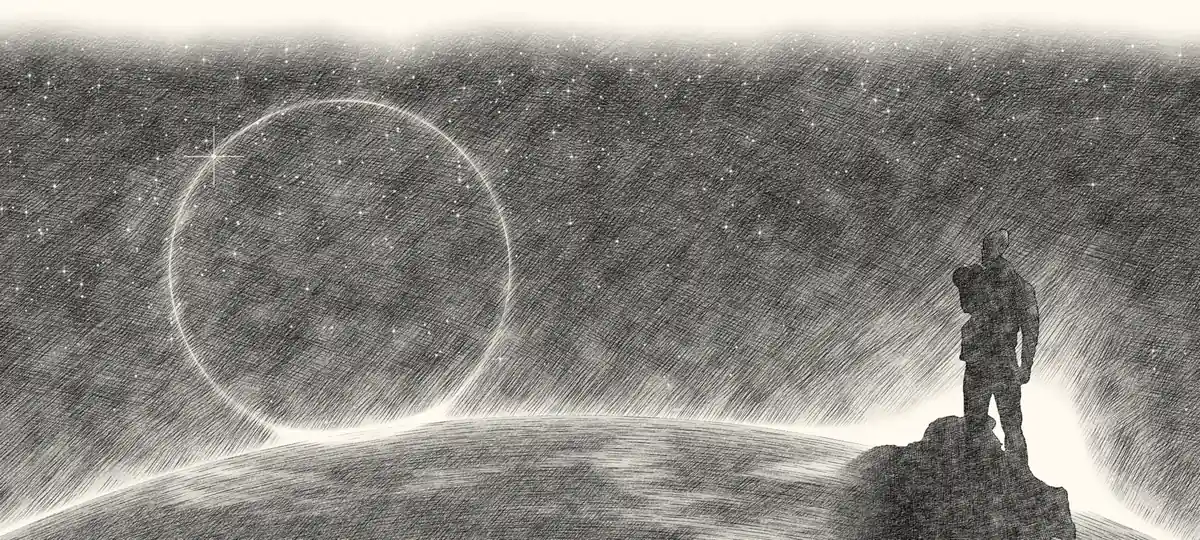
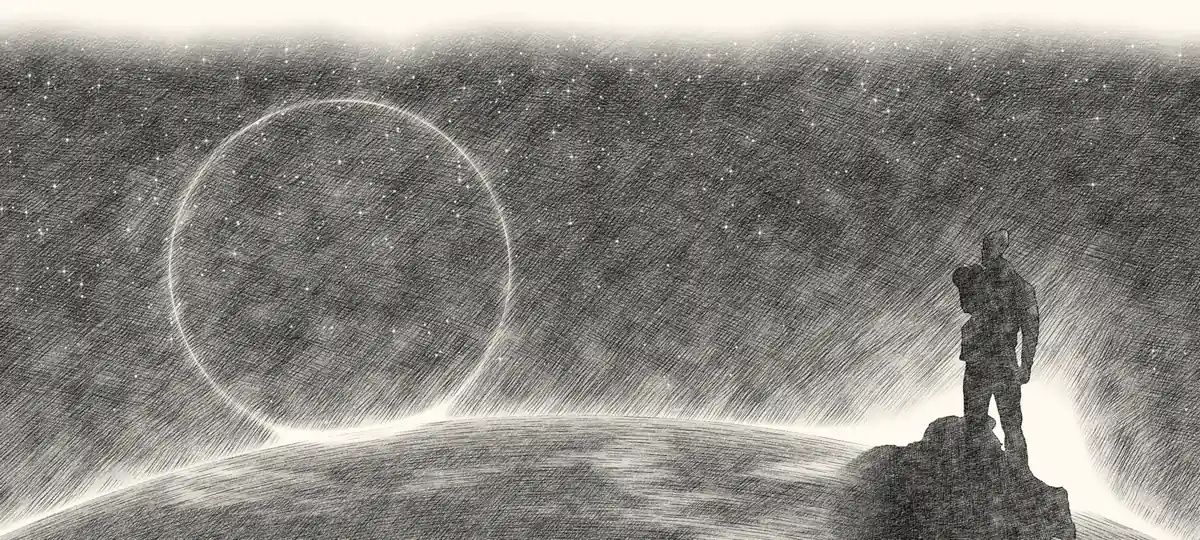
Make the bright star on the footer's ring twinkle
The star is no longer part of the drawing but drawn over it, so it can
flare. Three nested groups flare on cycles of different lengths, so the
flares come at irregular intervals.

Session: claude://claude.ai/epitaxy/local_8bf3452f-ca40-4c1d-a549-1e6323dcae47

Changed region(s): [[0.1542, 0.2667, 0.185, 0.2963]]

diff --git a/ausschnitt.html b/ausschnitt.html
@@ -182,6 +182,7 @@
                 <feComposite in="wob" in2="ga" operator="in"/>
               </filter>
             </defs>
+            <g class="twinkle"><g><g><circle cx="427" cy="312.5" r="30" fill="url(#footer-halo)" stroke="none"/><path d="M367.0 312.5L487.0 312.5M427.0 252.5L427.0 372.5" stroke-width="1.6"/><path d="M411.4 296.9L442.6 328.1M442.6 296.9L411.4 328.1" stroke-width="1"/><path d="M398.8 302.2L455.2 322.8M437.3 284.3L416.7 340.7" stroke-width=".7"/><circle cx="427" cy="312.5" r="5" fill="#fff" stroke="none"/></g></g></g>
             <g class="lines" filter="url(#footer-chalk)"><path d="M1580 290L1525 400"/><path d="M1525 400L1510 510"/><path d="M1510 510L1535 620"/></g>
             <g class="constellation">
               <a class="l1" href="/"><rect class="hit" x="1000" y="235" width="620" height="110"/><text x="1534" y="306" text-anchor="end" class="gothic-font">Startseite</text><g class="star"><circle cx="1580" cy="290" r="11" fill="url(#footer-halo)" stroke="none"/><path d="M1556 291L1604 289" stroke-width="2.2"/><path d="M1580 266L1580 314" stroke-width="2.2"/><path d="M1573 284L1587 296" stroke-width="1.4"/><path d="M1587 284L1573 296" stroke-width="1.4"/><circle cx="1580" cy="290" r="4" fill="#fff" stroke="none"/></g></a>

diff --git a/datenschutzerklaerung.html b/datenschutzerklaerung.html
@@ -138,6 +138,7 @@
                 <feComposite in="wob" in2="ga" operator="in"/>
               </filter>
             </defs>
+            <g class="twinkle"><g><g><circle cx="427" cy="312.5" r="30" fill="url(#footer-halo)" stroke="none"/><path d="M367.0 312.5L487.0 312.5M427.0 252.5L427.0 372.5" stroke-width="1.6"/><path d="M411.4 296.9L442.6 328.1M442.6 296.9L411.4 328.1" stroke-width="1"/><path d="M398.8 302.2L455.2 322.8M437.3 284.3L416.7 340.7" stroke-width=".7"/><circle cx="427" cy="312.5" r="5" fill="#fff" stroke="none"/></g></g></g>
             <g class="lines" filter="url(#footer-chalk)"><path d="M1580 290L1525 400"/><path d="M1525 400L1510 510"/><path d="M1510 510L1535 620"/></g>
             <g class="constellation">
               <a class="l1" href="/"><rect class="hit" x="1000" y="235" width="620" height="110"/><text x="1534" y="306" text-anchor="end" class="gothic-font">Startseite</text><g class="star"><circle cx="1580" cy="290" r="11" fill="url(#footer-halo)" stroke="none"/><path d="M1556 291L1604 289" stroke-width="2.2"/><path d="M1580 266L1580 314" stroke-width="2.2"/><path d="M1573 284L1587 296" stroke-width="1.4"/><path d="M1587 284L1573 296" stroke-width="1.4"/><circle cx="1580" cy="290" r="4" fill="#fff" stroke="none"/></g></a>

diff --git a/errata.html b/errata.html
@@ -401,6 +401,7 @@
                 <feComposite in="wob" in2="ga" operator="in"/>
               </filter>
             </defs>
+            <g class="twinkle"><g><g><circle cx="427" cy="312.5" r="30" fill="url(#footer-halo)" stroke="none"/><path d="M367.0 312.5L487.0 312.5M427.0 252.5L427.0 372.5" stroke-width="1.6"/><path d="M411.4 296.9L442.6 328.1M442.6 296.9L411.4 328.1" stroke-width="1"/><path d="M398.8 302.2L455.2 322.8M437.3 284.3L416.7 340.7" stroke-width=".7"/><circle cx="427" cy="312.5" r="5" fill="#fff" stroke="none"/></g></g></g>
             <g class="lines" filter="url(#footer-chalk)"><path d="M1580 290L1525 400"/><path d="M1525 400L1510 510"/><path d="M1510 510L1535 620"/></g>
             <g class="constellation">
               <a class="l1" href="/"><rect class="hit" x="1000" y="235" width="620" height="110"/><text x="1534" y="306" text-anchor="end" class="gothic-font">Startseite</text><g class="star"><circle cx="1580" cy="290" r="11" fill="url(#footer-halo)" stroke="none"/><path d="M1556 291L1604 289" stroke-width="2.2"/><path d="M1580 266L1580 314" stroke-width="2.2"/><path d="M1573 284L1587 296" stroke-width="1.4"/><path d="M1587 284L1573 296" stroke-width="1.4"/><circle cx="1580" cy="290" r="4" fill="#fff" stroke="none"/></g></a>

diff --git a/glossar.html b/glossar.html
@@ -789,6 +789,7 @@
                 <feComposite in="wob" in2="ga" operator="in"/>
               </filter>
             </defs>
+            <g class="twinkle"><g><g><circle cx="427" cy="312.5" r="30" fill="url(#footer-halo)" stroke="none"/><path d="M367.0 312.5L487.0 312.5M427.0 252.5L427.0 372.5" stroke-width="1.6"/><path d="M411.4 296.9L442.6 328.1M442.6 296.9L411.4 328.1" stroke-width="1"/><path d="M398.8 302.2L455.2 322.8M437.3 284.3L416.7 340.7" stroke-width=".7"/><circle cx="427" cy="312.5" r="5" fill="#fff" stroke="none"/></g></g></g>
             <g class="lines" filter="url(#footer-chalk)"><path d="M1580 290L1525 400"/><path d="M1525 400L1510 510"/><path d="M1510 510L1535 620"/></g>
             <g class="constellation">
               <a class="l1" href="/"><rect class="hit" x="1000" y="235" width="620" height="110"/><text x="1534" y="306" text-anchor="end" class="gothic-font">Startseite</text><g class="star"><circle cx="1580" cy="290" r="11" fill="url(#footer-halo)" stroke="none"/><path d="M1556 291L1604 289" stroke-width="2.2"/><path d="M1580 266L1580 314" stroke-width="2.2"/><path d="M1573 284L1587 296" stroke-width="1.4"/><path d="M1587 284L1573 296" stroke-width="1.4"/><circle cx="1580" cy="290" r="4" fill="#fff" stroke="none"/></g></a>

diff --git a/index.html b/index.html
@@ -193,6 +193,7 @@
                 <feComposite in="wob" in2="ga" operator="in"/>
               </filter>
             </defs>
+            <g class="twinkle"><g><g><circle cx="427" cy="312.5" r="30" fill="url(#footer-halo)" stroke="none"/><path d="M367.0 312.5L487.0 312.5M427.0 252.5L427.0 372.5" stroke-width="1.6"/><path d="M411.4 296.9L442.6 328.1M442.6 296.9L411.4 328.1" stroke-width="1"/><path d="M398.8 302.2L455.2 322.8M437.3 284.3L416.7 340.7" stroke-width=".7"/><circle cx="427" cy="312.5" r="5" fill="#fff" stroke="none"/></g></g></g>
             <g class="lines" filter="url(#footer-chalk)"><path d="M1580 290L1525 400"/><path d="M1525 400L1510 510"/><path d="M1510 510L1535 620"/></g>
             <g class="constellation">
               <a class="l1" href="/"><rect class="hit" x="1000" y="235" width="620" height="110"/><text x="1534" y="306" text-anchor="end" class="gothic-font">Startseite</text><g class="star"><circle cx="1580" cy="290" r="11" fill="url(#footer-halo)" stroke="none"/><path d="M1556 291L1604 289" stroke-width="2.2"/><path d="M1580 266L1580 314" stroke-width="2.2"/><path d="M1573 284L1587 296" stroke-width="1.4"/><path d="M1587 284L1573 296" stroke-width="1.4"/><circle cx="1580" cy="290" r="4" fill="#fff" stroke="none"/></g></a>

diff --git a/interview.html b/interview.html
@@ -121,6 +121,7 @@
                 <feComposite in="wob" in2="ga" operator="in"/>
               </filter>
             </defs>
+            <g class="twinkle"><g><g><circle cx="427" cy="312.5" r="30" fill="url(#footer-halo)" stroke="none"/><path d="M367.0 312.5L487.0 312.5M427.0 252.5L427.0 372.5" stroke-width="1.6"/><path d="M411.4 296.9L442.6 328.1M442.6 296.9L411.4 328.1" stroke-width="1"/><path d="M398.8 302.2L455.2 322.8M437.3 284.3L416.7 340.7" stroke-width=".7"/><circle cx="427" cy="312.5" r="5" fill="#fff" stroke="none"/></g></g></g>
             <g class="lines" filter="url(#footer-chalk)"><path d="M1580 290L1525 400"/><path d="M1525 400L1510 510"/><path d="M1510 510L1535 620"/></g>
             <g class="constellation">
               <a class="l1" href="/"><rect class="hit" x="1000" y="235" width="620" height="110"/><text x="1534" y="306" text-anchor="end" class="gothic-font">Startseite</text><g class="star"><circle cx="1580" cy="290" r="11" fill="url(#footer-halo)" stroke="none"/><path d="M1556 291L1604 289" stroke-width="2.2"/><path d="M1580 266L1580 314" stroke-width="2.2"/><path d="M1573 284L1587 296" stroke-width="1.4"/><path d="M1587 284L1573 296" stroke-width="1.4"/><circle cx="1580" cy="290" r="4" fill="#fff" stroke="none"/></g></a>

diff --git a/kaufen.html b/kaufen.html
@@ -127,6 +127,7 @@
                 <feComposite in="wob" in2="ga" operator="in"/>
               </filter>
             </defs>
+            <g class="twinkle"><g><g><circle cx="427" cy="312.5" r="30" fill="url(#footer-halo)" stroke="none"/><path d="M367.0 312.5L487.0 312.5M427.0 252.5L427.0 372.5" stroke-width="1.6"/><path d="M411.4 296.9L442.6 328.1M442.6 296.9L411.4 328.1" stroke-width="1"/><path d="M398.8 302.2L455.2 322.8M437.3 284.3L416.7 340.7" stroke-width=".7"/><circle cx="427" cy="312.5" r="5" fill="#fff" stroke="none"/></g></g></g>
             <g class="lines" filter="url(#footer-chalk)"><path d="M1580 290L1525 400"/><path d="M1525 400L1510 510"/><path d="M1510 510L1535 620"/></g>
             <g class="constellation">
               <a class="l1" href="/"><rect class="hit" x="1000" y="235" width="620" height="110"/><text x="1534" y="306" text-anchor="end" class="gothic-font">Startseite</text><g class="star"><circle cx="1580" cy="290" r="11" fill="url(#footer-halo)" stroke="none"/><path d="M1556 291L1604 289" stroke-width="2.2"/><path d="M1580 266L1580 314" stroke-width="2.2"/><path d="M1573 284L1587 296" stroke-width="1.4"/><path d="M1587 284L1573 296" stroke-width="1.4"/><circle cx="1580" cy="290" r="4" fill="#fff" stroke="none"/></g></a>

diff --git a/leserstimmen.html b/leserstimmen.html
@@ -170,6 +170,7 @@
                 <feComposite in="wob" in2="ga" operator="in"/>
               </filter>
             </defs>
+            <g class="twinkle"><g><g><circle cx="427" cy="312.5" r="30" fill="url(#footer-halo)" stroke="none"/><path d="M367.0 312.5L487.0 312.5M427.0 252.5L427.0 372.5" stroke-width="1.6"/><path d="M411.4 296.9L442.6 328.1M442.6 296.9L411.4 328.1" stroke-width="1"/><path d="M398.8 302.2L455.2 322.8M437.3 284.3L416.7 340.7" stroke-width=".7"/><circle cx="427" cy="312.5" r="5" fill="#fff" stroke="none"/></g></g></g>
             <g class="lines" filter="url(#footer-chalk)"><path d="M1580 290L1525 400"/><path d="M1525 400L1510 510"/><path d="M1510 510L1535 620"/></g>
             <g class="constellation">
               <a class="l1" href="/"><rect class="hit" x="1000" y="235" width="620" height="110"/><text x="1534" y="306" text-anchor="end" class="gothic-font">Startseite</text><g class="star"><circle cx="1580" cy="290" r="11" fill="url(#footer-halo)" stroke="none"/><path d="M1556 291L1604 289" stroke-width="2.2"/><path d="M1580 266L1580 314" stroke-width="2.2"/><path d="M1573 284L1587 296" stroke-width="1.4"/><path d="M1587 284L1573 296" stroke-width="1.4"/><circle cx="1580" cy="290" r="4" fill="#fff" stroke="none"/></g></a>

diff --git a/mehr.html b/mehr.html
@@ -410,6 +410,7 @@
                 <feComposite in="wob" in2="ga" operator="in"/>
               </filter>
             </defs>
+            <g class="twinkle"><g><g><circle cx="427" cy="312.5" r="30" fill="url(#footer-halo)" stroke="none"/><path d="M367.0 312.5L487.0 312.5M427.0 252.5L427.0 372.5" stroke-width="1.6"/><path d="M411.4 296.9L442.6 328.1M442.6 296.9L411.4 328.1" stroke-width="1"/><path d="M398.8 302.2L455.2 322.8M437.3 284.3L416.7 340.7" stroke-width=".7"/><circle cx="427" cy="312.5" r="5" fill="#fff" stroke="none"/></g></g></g>
             <g class="lines" filter="url(#footer-chalk)"><path d="M1580 290L1525 400"/><path d="M1525 400L1510 510"/><path d="M1510 510L1535 620"/></g>
             <g class="constellation">
               <a class="l1" href="/"><rect class="hit" x="1000" y="235" width="620" height="110"/><text x="1534" y="306" text-anchor="end" class="gothic-font">Startseite</text><g class="star"><circle cx="1580" cy="290" r="11" fill="url(#footer-halo)" stroke="none"/><path d="M1556 291L1604 289" stroke-width="2.2"/><path d="M1580 266L1580 314" stroke-width="2.2"/><path d="M1573 284L1587 296" stroke-width="1.4"/><path d="M1587 284L1573 296" stroke-width="1.4"/><circle cx="1580" cy="290" r="4" fill="#fff" stroke="none"/></g></a>

diff --git a/pressestimmen.html b/pressestimmen.html
@@ -219,6 +219,7 @@
                 <feComposite in="wob" in2="ga" operator="in"/>
               </filter>
             </defs>
+            <g class="twinkle"><g><g><circle cx="427" cy="312.5" r="30" fill="url(#footer-halo)" stroke="none"/><path d="M367.0 312.5L487.0 312.5M427.0 252.5L427.0 372.5" stroke-width="1.6"/><path d="M411.4 296.9L442.6 328.1M442.6 296.9L411.4 328.1" stroke-width="1"/><path d="M398.8 302.2L455.2 322.8M437.3 284.3L416.7 340.7" stroke-width=".7"/><circle cx="427" cy="312.5" r="5" fill="#fff" stroke="none"/></g></g></g>
             <g class="lines" filter="url(#footer-chalk)"><path d="M1580 290L1525 400"/><path d="M1525 400L1510 510"/><path d="M1510 510L1535 620"/></g>
             <g class="constellation">
               <a class="l1" href="/"><rect class="hit" x="1000" y="235" width="620" height="110"/><text x="1534" y="306" text-anchor="end" class="gothic-font">Startseite</text><g class="star"><circle cx="1580" cy="290" r="11" fill="url(#footer-halo)" stroke="none"/><path d="M1556 291L1604 289" stroke-width="2.2"/><path d="M1580 266L1580 314" stroke-width="2.2"/><path d="M1573 284L1587 296" stroke-width="1.4"/><path d="M1587 284L1573 296" stroke-width="1.4"/><circle cx="1580" cy="290" r="4" fill="#fff" stroke="none"/></g></a>

diff --git a/sokrates.html b/sokrates.html
@@ -121,6 +121,7 @@
                 <feComposite in="wob" in2="ga" operator="in"/>
               </filter>
             </defs>
+            <g class="twinkle"><g><g><circle cx="427" cy="312.5" r="30" fill="url(#footer-halo)" stroke="none"/><path d="M367.0 312.5L487.0 312.5M427.0 252.5L427.0 372.5" stroke-width="1.6"/><path d="M411.4 296.9L442.6 328.1M442.6 296.9L411.4 328.1" stroke-width="1"/><path d="M398.8 302.2L455.2 322.8M437.3 284.3L416.7 340.7" stroke-width=".7"/><circle cx="427" cy="312.5" r="5" fill="#fff" stroke="none"/></g></g></g>
             <g class="lines" filter="url(#footer-chalk)"><path d="M1580 290L1525 400"/><path d="M1525 400L1510 510"/><path d="M1510 510L1535 620"/></g>
             <g class="constellation">
               <a class="l1" href="/"><rect class="hit" x="1000" y="235" width="620" height="110"/><text x="1534" y="306" text-anchor="end" class="gothic-font">Startseite</text><g class="star"><circle cx="1580" cy="290" r="11" fill="url(#footer-halo)" stroke="none"/><path d="M1556 291L1604 289" stroke-width="2.2"/><path d="M1580 266L1580 314" stroke-width="2.2"/><path d="M1573 284L1587 296" stroke-width="1.4"/><path d="M1587 284L1573 296" stroke-width="1.4"/><circle cx="1580" cy="290" r="4" fill="#fff" stroke="none"/></g></a>

diff --git a/wilhelm-busch.html b/wilhelm-busch.html
@@ -129,6 +129,7 @@
                 <feComposite in="wob" in2="ga" operator="in"/>
               </filter>
             </defs>
+            <g class="twinkle"><g><g><circle cx="427" cy="312.5" r="30" fill="url(#footer-halo)" stroke="none"/><path d="M367.0 312.5L487.0 312.5M427.0 252.5L427.0 372.5" stroke-width="1.6"/><path d="M411.4 296.9L442.6 328.1M442.6 296.9L411.4 328.1" stroke-width="1"/><path d="M398.8 302.2L455.2 322.8M437.3 284.3L416.7 340.7" stroke-width=".7"/><circle cx="427" cy="312.5" r="5" fill="#fff" stroke="none"/></g></g></g>
             <g class="lines" filter="url(#footer-chalk)"><path d="M1580 290L1525 400"/><path d="M1525 400L1510 510"/><path d="M1510 510L1535 620"/></g>
             <g class="constellation">
               <a class="l1" href="/"><rect class="hit" x="1000" y="235" width="620" height="110"/><text x="1534" y="306" text-anchor="end" class="gothic-font">Startseite</text><g class="star"><circle cx="1580" cy="290" r="11" fill="url(#footer-halo)" stroke="none"/><path d="M1556 291L1604 289" stroke-width="2.2"/><path d="M1580 266L1580 314" stroke-width="2.2"/><path d="M1573 284L1587 296" stroke-width="1.4"/><path d="M1587 284L1573 296" stroke-width="1.4"/><circle cx="1580" cy="290" r="4" fill="#fff" stroke="none"/></g></a>
